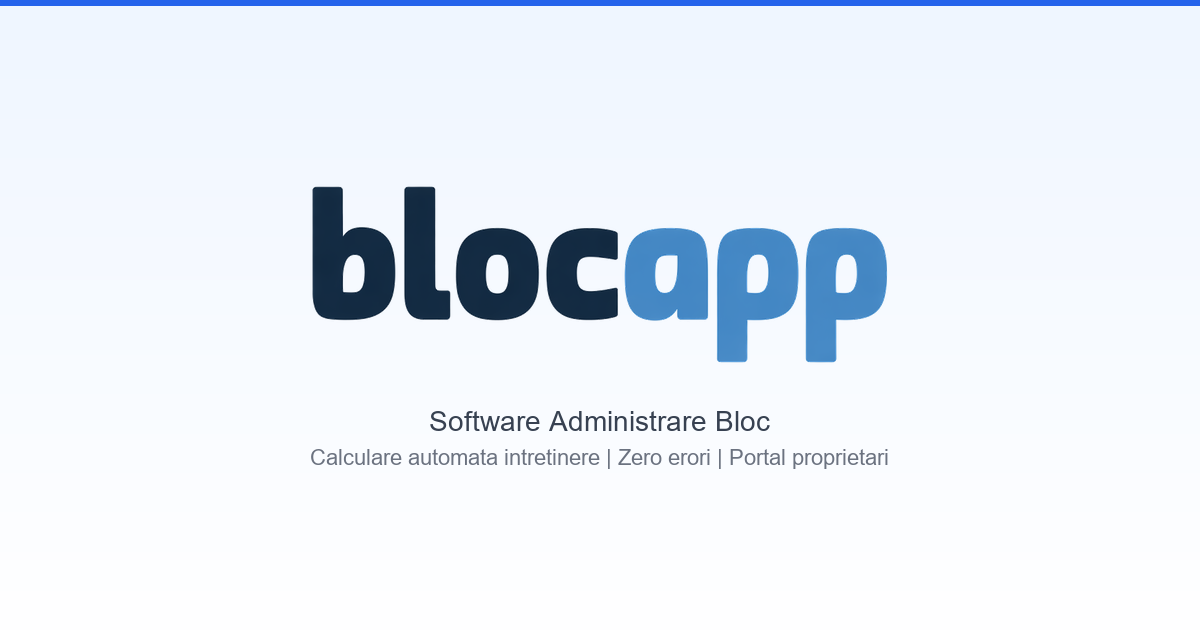
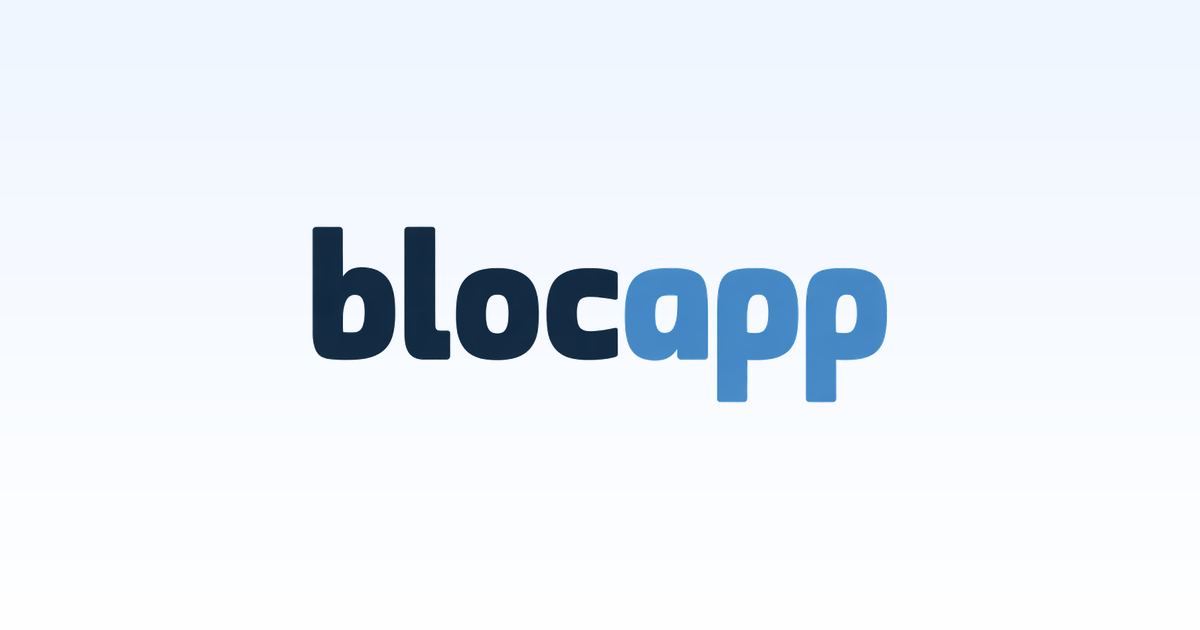
style: Update OG image and social sharing metadata
- OG image now shows only the logo (removed blue line and text)
- Title: "Software modern pentru asociații de proprietari"
- Description: "Calcul întreținere automat, portal proprietari, plăți online."

Changed region(s): [[0.2467, 0.2714, 0.74, 0.754], [0.0, 0.0, 1.0, 0.0302], [0.3392, 0.2714, 0.37, 0.3619]]

diff --git a/website/app/layout.tsx b/website/app/layout.tsx
@@ -28,8 +28,8 @@ export const metadata: Metadata = {
     apple: '/blocapp-icon-admin.png',
   },
   openGraph: {
-    title: "BlocApp - Administrează blocul fără Excel",
-    description: "Calculare automată întreținere, zero erori, portal proprietari. Trial 90 zile gratuit.",
+    title: "BlocApp - Software modern pentru asociații de proprietari",
+    description: "Calcul întreținere automat, portal proprietari, plăți online.",
     url: "https://blocapp.ro",
     siteName: "BlocApp",
     locale: "ro_RO",
@@ -46,8 +46,8 @@ export const metadata: Metadata = {
   },
   twitter: {
     card: "summary_large_image",
-    title: "BlocApp - Software Administrare Bloc",
-    description: "Calculare automată întreținere, zero erori. Trial 90 zile gratuit.",
+    title: "BlocApp - Software modern pentru asociații de proprietari",
+    description: "Calcul întreținere automat, portal proprietari, plăți online.",
     images: ["https://blocapp.ro/og-image.png"],
   },
   viewport: {
